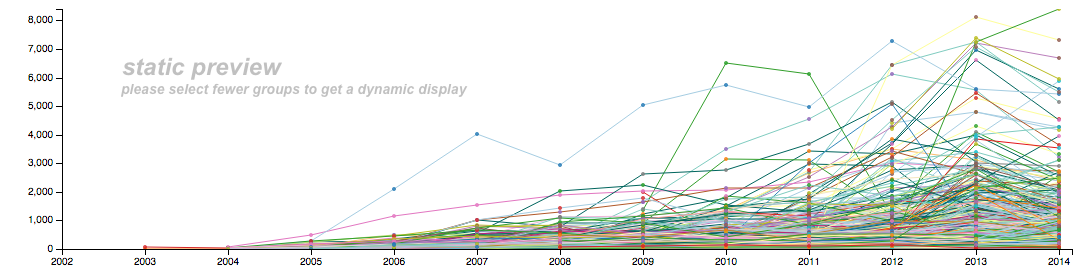
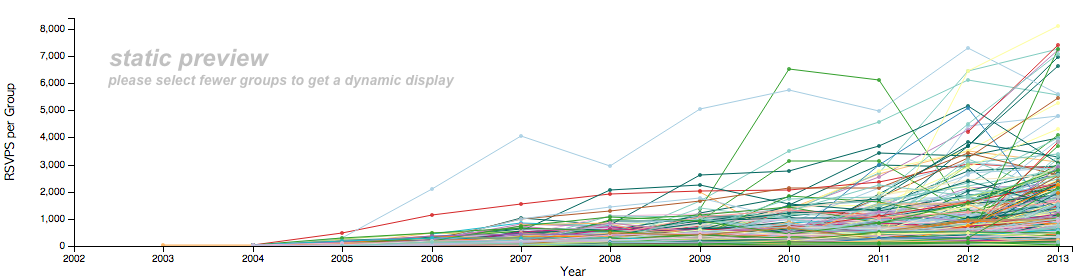
only show 2002 to 2013, there is no full data for 2014

diff --git a/static/index.js b/static/index.js
@@ -1,6 +1,6 @@
 /* Configuration for Charts */
 var timeline_start = new Date(2002, 0, 1);
-var timeline_end   = new Date(2014, 2, 1);
+var timeline_end   = new Date(2013, 2, 1);
 
 var max_no_of_groups_to_display_in_timeline_and_table = 800;
 
